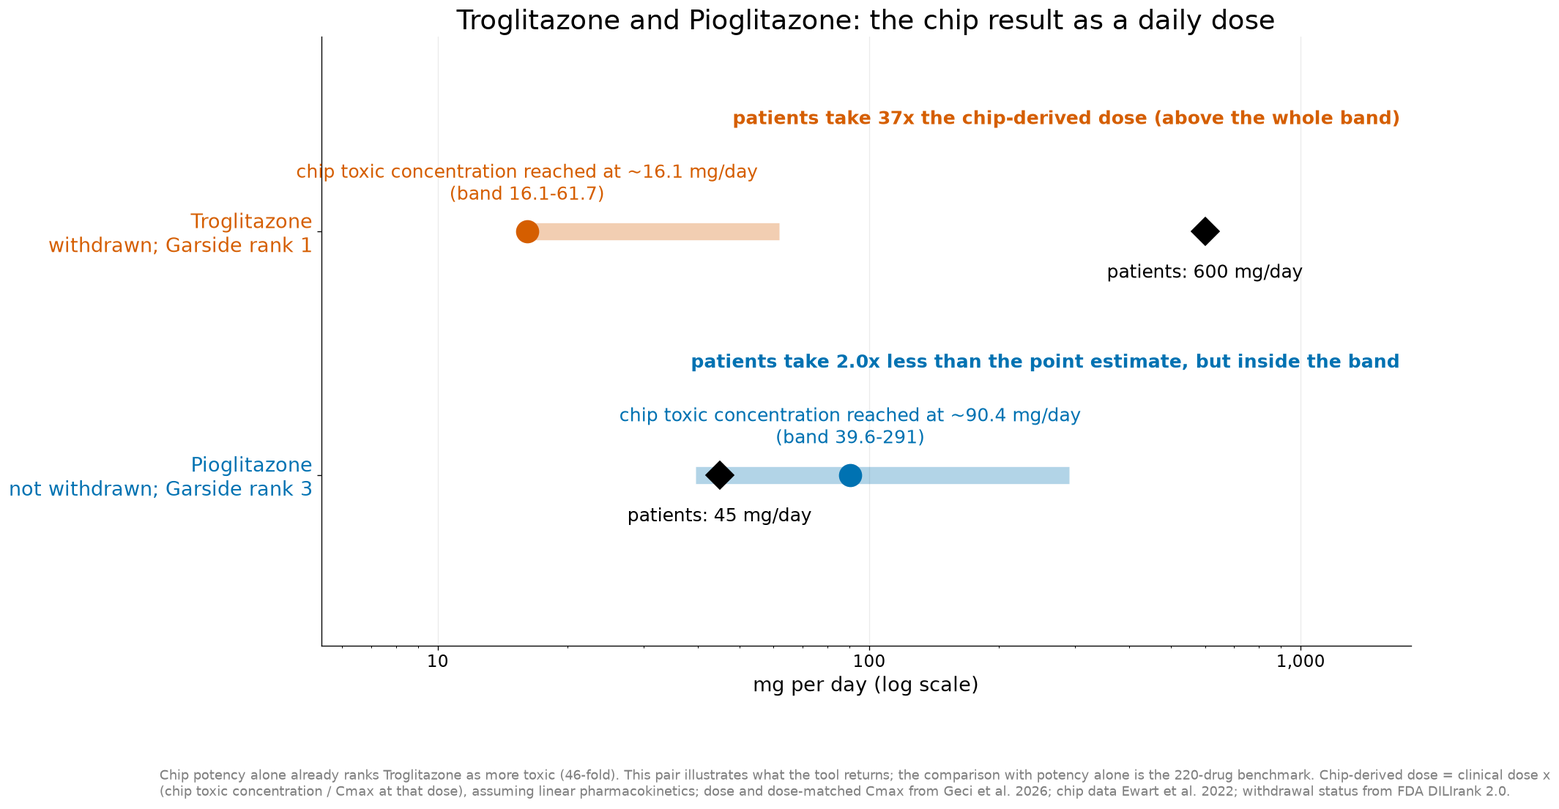
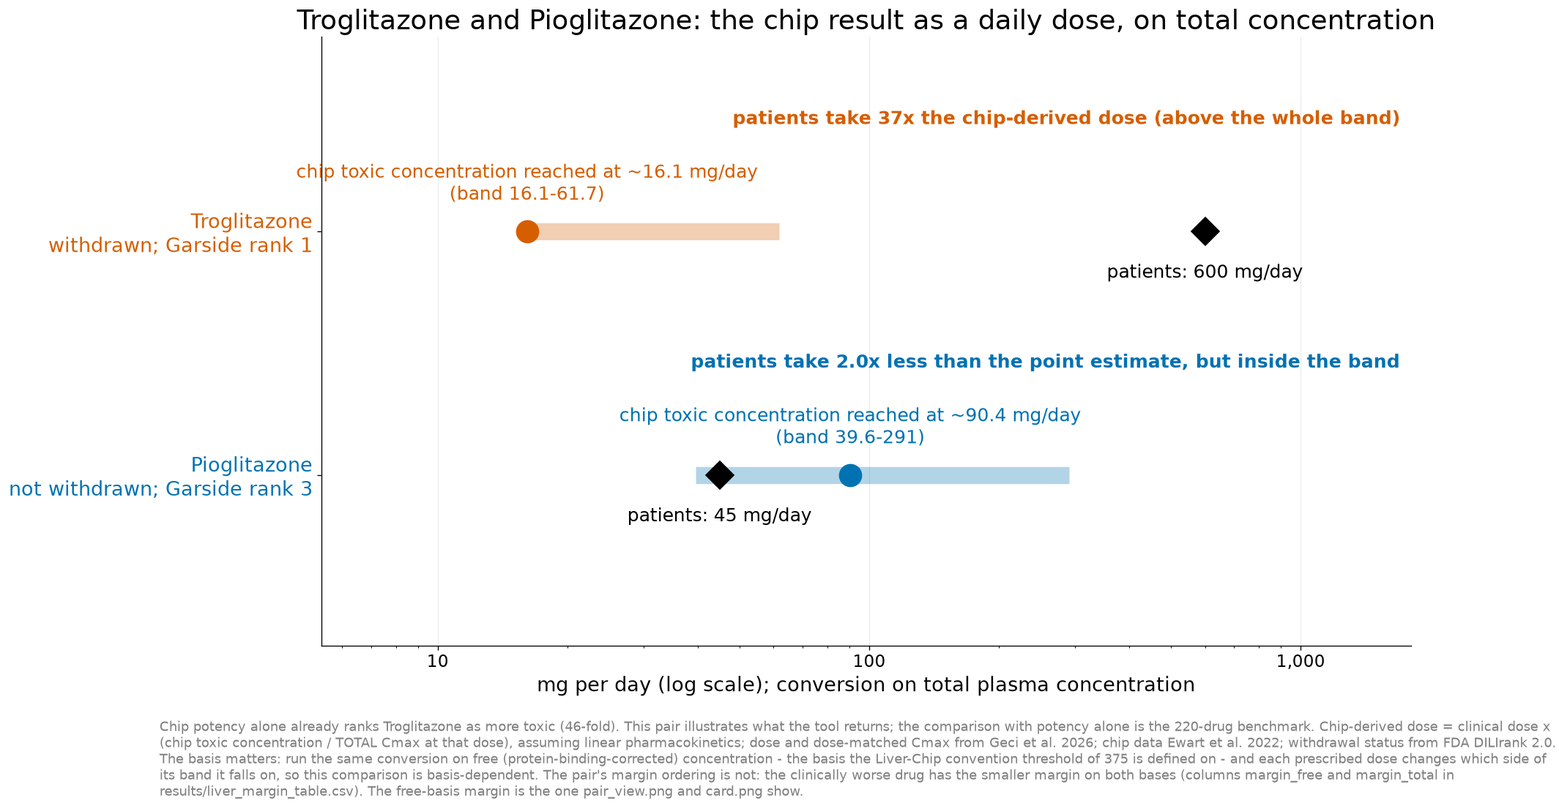
Lead the pair reveal with the free-basis margin, not the dose
The equivalent daily dose is computed on total concentration by
construction. On the free basis, which is what the Liver-Chip convention
threshold of 375 is defined on, each prescribed dose changes which side of
its band it falls on: troglitazone's moves from above the whole band to
inside it, pioglitazone's from inside its band to below it.

The pair's margin ordering does not change with the basis. Troglitazone
1.42x against pioglitazone 94.1x on free, 66-fold apart with bands that do
not overlap; 0.03x against 2.8x on total, 93-fold apart, also without
overlap. So the card now shows the two free-basis margins against the
convention line, with the basis named in its caption, and dose_view names
the total basis in its title, its axis label and its footnote. mg/day is
unchanged as the tool's output format in the CLI, the neural table and the
report.

Also in this change:

- Name each AUC baseline with its own increment. The free increment of
  +0.078 is over free Cmax alone (0.745), not over total Cmax alone
  (0.845); the free margin arm is 0.824 and sits below that baseline, so
  the two increments cannot be read against one anchor.
- Separate the benchmark's presence counts from its decider counts. They
  were run into one list that summed to 379 against 220 drugs. Which assay
  produces the lowest POD: BSEP 70, Cell Painting 27, HepG2 18, THLE 9.
  Merely present: 149, 79, 113, 117.

Tests pin the hero margins, the fold, and the text the card actually
[…]

Changed region(s): [[0.093, 0.8923, 1.0, 0.9846], [0.186, 0.0, 0.93, 0.0615], [0.341, 0.8308, 0.775, 0.8615]]

diff --git a/src/figures.py b/src/figures.py
@@ -144,10 +144,22 @@ def pair_view(margins: pd.DataFrame, key_a: str, key_b: str, path: Path) -> Path
     return _save(fig, path)
 
 
+def _withdrawal_status(compound: str) -> str:
+    """'withdrawn' / 'not withdrawn' from the DILIrank label section. Shared by the dose view and the
+    card so the two can never disagree about a drug's regulatory fate."""
+    clinical = labels.dilirank_label(compound)
+    return "withdrawn" if clinical.found and "withdrawn" in clinical.text.lower() else "not withdrawn"
+
+
 def dose_view(margins: pd.DataFrame, pairs: pd.DataFrame, key_a: str, key_b: str, path: Path) -> Path:
     """The output in real units: the daily dose at which the chip's toxic concentration is reached,
     next to the dose patients take. Illustrates what the tool returns; it is not the comparative
-    evidence (that is the benchmark), and the footer says so."""
+    evidence (that is the benchmark), and the footer says so.
+
+    The conversion is on TOTAL concentration by construction (`margin.compute` multiplies the dose by
+    `margin_total`), so the basis is named in the title, on the axis and in the footnote: on the free
+    basis the same pair's derived doses move and each prescribed dose changes side of its band, which
+    is why the basis-robust comparison is the margin figure and not this one."""
     by_key = margins.set_index("key")
     rows = sorted([by_key.loc[key_a], by_key.loc[key_b]], key=lambda r: r["garside_rank"])
     for row in rows:
@@ -171,20 +183,18 @@ def dose_view(margins: pd.DataFrame, pairs: pd.DataFrame, key_a: str, key_b: str
         ax.annotate(margin.dose_relation(dose, lo, hi, prescribed), (0.99, y + 0.46), xycoords=("axes fraction", "data"),
                     ha="right", va="center", fontsize=15, color=colour, weight="bold")
 
-    names = []
-    for row in rows:
-        clinical = labels.dilirank_label(row["compound"])
-        status = "withdrawn" if clinical.found and "withdrawn" in clinical.text.lower() else "not withdrawn"
-        names.append(f"{row['compound']}\n{status}; Garside rank {row['garside_rank']}")
+    names = [f"{row['compound']}\n{_withdrawal_status(row['compound'])}; Garside rank {row['garside_rank']}"
+             for row in rows]
     ax.set_yticks(ypos)
     ax.set_yticklabels(names, fontsize=16)
     for tick, colour in zip(ax.get_yticklabels(), colours):
         tick.set_color(colour)
     _log_axis(ax, values, pad=3.0)
     ax.set_ylim(-0.7, 1.8)
-    ax.set_xlabel("mg per day (log scale)")
+    ax.set_xlabel("mg per day (log scale); conversion on total plasma concentration")
     ax.grid(axis="x", alpha=0.25)
-    ax.set_title(f"{rows[0]['compound']} and {rows[1]['compound']}: the chip result as a daily dose", fontsize=22)
+    ax.set_title(f"{rows[0]['compound']} and {rows[1]['compound']}: the chip result as a daily dose, "
+                 "on total concentration", fontsize=22)
 
     pair = pairs[pairs["clinically_worse"].eq(rows[0]["compound"]) & pairs["comparator"].eq(rows[1]["compound"])]
     potency_note = (f"Chip potency alone already ranks {rows[0]['compound']} as more toxic "
@@ -192,49 +202,74 @@ def dose_view(margins: pd.DataFrame, pairs: pd.DataFrame, key_a: str, key_b: str
                     np.isfinite(pair["potency_fold"].iloc[0]) else "")
     fig.text(0.01, -0.08,
              f"{potency_note}This pair illustrates what the tool returns; the comparison with potency alone is the "
-             "220-drug benchmark. Chip-derived dose = clinical dose x (chip toxic concentration / Cmax at that dose), "
-             "assuming linear pharmacokinetics; dose and dose-matched Cmax from Geci et al. 2026; chip data Ewart et al. 2022; "
-             "withdrawal status from FDA DILIrank 2.0.",
+             "220-drug benchmark. Chip-derived dose = clinical dose x (chip toxic concentration / TOTAL Cmax at that "
+             "dose), assuming linear pharmacokinetics; dose and dose-matched Cmax from Geci et al. 2026; chip data "
+             "Ewart et al. 2022; withdrawal status from FDA DILIrank 2.0. The basis matters: run the same conversion "
+             "on free (protein-binding-corrected) concentration - the basis the Liver-Chip convention threshold of "
+             f"{config.THRESHOLDS['liver_free_375'].value:g} is defined on - and each prescribed dose changes which "
+             "side of its band it falls on, so this comparison is basis-dependent. The pair's margin ordering is not: "
+             "the clinically worse drug has the smaller margin on both bases (columns margin_free and margin_total in "
+             "results/liver_margin_table.csv). The free-basis margin is the one pair_view.png and card.png show.",
              fontsize=11, color=GREY, wrap=True)
     return _save(fig, path)
 
 
+def card_caption(margin_a: float, margin_b: float) -> str:
+    """The card's one caption line. A separate pure function so a test can assert the sentence the
+    card carries - the basis word above all - against live numbers instead of against source text."""
+    fold = max(margin_a, margin_b) / min(margin_a, margin_b)
+    return f"Liver-Chip safety margin on free concentration: {fold:.0f}-fold apart, same chip, same lab."
+
+
 def card_image(margins: pd.DataFrame, key_a: str, key_b: str, path: Path,
                aspect: dict | None = None) -> Path:
-    """The submission card: the same hero-pair numbers as `dose_view`, composed for a small card.
+    """The submission card: the hero pair's safety margin on the free basis, composed for a small card.
 
     Not a shrunk figure. It is read at roughly 300 px wide in a gallery grid, so everything that only
-    works at full size is gone - no axis, no ticks, no grid, no footnote - and what remains is the two
-    compounds, the chip-derived daily dose with its band, and the dose patients took. `aspect` defaults
-    to `CARD` (560 x 280, the size the Kaggle editor asks for); pass another dict to retarget it."""
+    works at full size is gone - no axis, no ticks, no grid - and what remains is the two compounds
+    with their clinical fate, the margin with its band, and the published convention threshold.
+
+    It shows the margin rather than the equivalent daily dose because this is the only figure with no
+    room for a footnote, and the dose comparison is basis-dependent (see `dose_view`) while the margin
+    orders this pair the same way on total and on free concentration. The basis is on the card's face.
+    `aspect` defaults to `CARD` (560 x 280, the size the Kaggle editor asks for); pass another dict to
+    retarget it."""
     by_key = margins.set_index("key")
     rows = sorted([by_key.loc[key_a], by_key.loc[key_b]], key=lambda r: r["garside_rank"])
     for row in rows:
-        if not np.isfinite(row["equivalent_dose_mg"]):
-            raise ValueError(f"{row['compound']}: no dose-matched Cmax, no equivalent daily dose to show")
+        # A censored POD makes the margin a lower bound, and a card has no room to say so.
+        if bool(row["censored"]) or not np.isfinite(row["margin_free"]):
+            raise ValueError(f"{row['compound']}: margin on the free basis is not a single measured "
+                             "value, so it cannot go on a card without a footnote")
 
+    threshold = rows[0]["threshold"]
     fig, ax = plt.subplots(**(aspect or CARD))
-    fig.subplots_adjust(left=0.26, right=0.98, top=0.70, bottom=0.08)
-    values = []
+    fig.subplots_adjust(left=0.30, right=0.97, top=0.66, bottom=0.10)
+    # The axis is fixed before anything is drawn, so each label can be anchored on the side of its
+    # marker that has room: the convention line is the rightmost mark and a centred label crosses it.
+    _log_axis(ax, [threshold] + [v for r in rows for v in (r["band_low"], r["band_high"], r["margin_free"])],
+              pad=5.0)
+    midpoint = float(np.sqrt(np.prod(ax.get_xlim())))  # geometric mean = the visual centre of a log axis
     for row, colour, y in zip(rows, [VERMILLION, BLUE], [1, 0]):
-        lo, hi = row["equivalent_dose_band_low"], row["equivalent_dose_band_high"]
-        dose, prescribed = row["equivalent_dose_mg"], row["clinical_dose_mg"]
-        values += [lo, hi, prescribed]
+        lo, hi = row["band_low"], row["band_high"]
+        value = row["margin_free"]
         ax.plot([lo, hi], [y, y], color=colour, lw=9, alpha=0.3, solid_capstyle="butt")
-        ax.plot(dose, y, "o", color=colour, ms=9)
-        ax.annotate(f"chip: {_fmt(dose)} mg/day ({_fmt(lo)}-{_fmt(hi)})", (dose, y), textcoords="offset points",
-                    xytext=(0, 11), ha="center", fontsize=11, color=colour)
-        ax.plot(prescribed, y, "D", color=BLACK, ms=8)
-        ax.annotate(f"patients: {_fmt(prescribed)}", (prescribed, y), textcoords="offset points",
-                    xytext=(0, -20), ha="center", fontsize=11)
+        ax.plot(value, y, "o", color=colour, ms=9)
+        right_half = value > midpoint
+        ax.annotate(f"margin {_fmt(value)}x ({_fmt(lo)}-{_fmt(hi)})", (value, y), textcoords="offset points",
+                    xytext=(-7 if right_half else 0, 11), ha="right" if right_half else "center",
+                    fontsize=11, color=colour)
+
+    ax.axvline(threshold, color=BLACK, ls="--", lw=1.2)
+    ax.annotate(f"convention {threshold:g}", (threshold, 1.62), xytext=(-5, 0), textcoords="offset points",
+                ha="right", va="center", fontsize=10)
 
     ax.set_yticks([1, 0])
-    ax.set_yticklabels([r["compound"] for r in rows], fontsize=12)
+    ax.set_yticklabels([f"{r['compound']}\n{_withdrawal_status(r['compound'])}" for r in rows], fontsize=11)
     for tick, colour in zip(ax.get_yticklabels(), [VERMILLION, BLUE]):
         tick.set_color(colour)
     ax.tick_params(axis="y", length=0)
-    _log_axis(ax, values, pad=5.0)
-    ax.set_ylim(-0.75, 1.75)
+    ax.set_ylim(-0.6, 1.9)
     # Everything a full-size figure can afford and a 300 px card cannot. A log scale keeps drawing
     # minor ticks after set_xticks([]), so the locator is cleared too, not just the labels.
     ax.set_xticks([])
@@ -242,9 +277,11 @@ def card_image(margins: pd.DataFrame, key_a: str, key_b: str, path: Path,
     ax.tick_params(axis="x", which="both", length=0)
     for side in ("left", "bottom"):
         ax.spines[side].set_visible(False)
-    # Two lines, not one: at this width a single line of the sentence runs off the canvas.
-    fig.text(0.02, 0.93, "An organ-chip gives a concentration.", fontsize=12.5, weight="bold", va="top")
-    fig.text(0.02, 0.80, "A patient gets a dose.", fontsize=12.5, weight="bold", va="top")
+    # The one surface with no footnote, so the basis and the fold are stated, not implied.
+    fig.text(0.02, 0.965, "An organ-chip gives a concentration. A patient gets a dose.",
+             fontsize=11.5, weight="bold", va="top")
+    fig.text(0.02, 0.855, card_caption(rows[0]["margin_free"], rows[1]["margin_free"]),
+             fontsize=9.5, color=GREY, va="top")
     return _save(fig, path, bbox_inches=fig.bbox_inches)
 
 

diff --git a/tests/test_pairs_and_outputs.py b/tests/test_pairs_and_outputs.py
@@ -257,12 +257,74 @@ def test_the_run_writes_the_submission_card_at_the_size_the_editor_requires(tmp_
     assert _png_size(card) == (560, 280)
 
 
-def test_the_card_refuses_a_pair_with_no_equivalent_daily_dose(tmp_path):
-    """Same guard as the dose view: the card shows a dose or it is not drawn. It must never fall back
-    to a compound whose equivalent dose does not exist."""
+def test_the_card_refuses_a_pair_whose_margin_is_only_a_lower_bound(tmp_path):
+    """The card carries the margin and has no room for a footnote, so it must never show a censored
+    POD's margin, which is a lower bound and not a measured value. Ambrisentan's POD is censored."""
     import pytest
     with pytest.raises(ValueError):
         figures.card_image(liver.margin_table(), "ambrisentan", "sitaxsentan", tmp_path / "x.png")
+
+
+# The hero pair's free-basis margins and their fold: spoken in demo Beat 3, printed on card.png and
+# on pair_view.png. Literals, because the basis is the whole point of the claim - the same pair on
+# total concentration separates 93-fold, and the equivalent-dose comparison changes direction with
+# the basis - so a silent switch of basis or data vintage has to turn this red, not move the number.
+HERO_MARGINS_FREE = {"troglitazone": 1.42309, "pioglitazone": 94.0772}
+HERO_MARGIN_FOLD_FREE = 66
+HERO_CONVENTION_THRESHOLD = 375.0
+
+
+def test_the_hero_pairs_free_margins_and_the_fold_the_demo_speaks_are_pinned():
+    """Beat 3 says '1.4x', '94x', '66-fold apart' and 'below the convention of 375'. A recorded video
+    cannot be re-run, so each of those is compared with a literal here rather than re-derived from the
+    table that produced it. The verdicts are pinned too: the claim is that the convention puts BOTH on
+    the same side while the distance from it separates them, which is false if either goes ABOVE."""
+    import numpy as np
+
+    table = liver.margin_table().set_index("key")
+    for key, expected in HERO_MARGINS_FREE.items():
+        row = table.loc[key]
+        assert np.isclose(row["margin_free"], expected, rtol=1e-5), (key, row["margin_free"])
+        assert not bool(row["censored"]), key
+        assert row["verdict"] == "BELOW", (key, row["verdict"])
+        assert row["threshold"] == HERO_CONVENTION_THRESHOLD, key
+    a, b = (table.loc[k]["margin_free"] for k in HERO_MARGINS_FREE)
+    assert round(max(a, b) / min(a, b)) == HERO_MARGIN_FOLD_FREE
+    # The bands do not overlap, which is what "decisive" means here and what the card shows.
+    tro, pio = table.loc["troglitazone"], table.loc["pioglitazone"]
+    assert tro["band_high"] < pio["band_low"], (tro["band_high"], pio["band_low"])
+    # The ordering survives the other basis; only the dose comparison changes direction with it.
+    assert tro["margin_total"] < pio["margin_total"]
+
+
+def _rendered_card_text(tmp_path, monkeypatch):
+    """Every string the card actually draws. The figure is held open instead of being read back off
+    the PNG, so the check is on the rendered artists rather than on the source that composed them."""
+    import matplotlib.pyplot as plt
+    held = []
+    monkeypatch.setattr(plt, "close", held.append)
+    figures.card_image(liver.margin_table(), "troglitazone", "pioglitazone", tmp_path / "card.png")
+    fig = held[-1]
+    drawn = [t.get_text() for t in fig.texts]
+    for ax in fig.axes:
+        drawn += [t.get_text() for t in ax.texts] + [t.get_text() for t in ax.get_yticklabels()]
+    plt.close(fig)
+    return drawn
+
+
+def test_the_card_states_the_basis_and_shows_the_free_margins(tmp_path, monkeypatch):
+    """P2-1: the card is the only surface with no footnote, and the quantity that used to be on it -
+    the equivalent daily dose - changes direction on the other basis. So the card carries the margin,
+    and says which basis, on its face. Rendered text, because that is what a reviewer reads."""
+    drawn = " | ".join(_rendered_card_text(tmp_path, monkeypatch))
+    assert "free concentration" in drawn, drawn
+    assert f"{HERO_MARGIN_FOLD_FREE}-fold" in drawn, drawn
+    assert f"convention {HERO_CONVENTION_THRESHOLD:g}" in drawn, drawn
+    # The plotted values are the free margins (1.42x / 94.1x), not the total ones (0.03x / 2.8x).
+    assert "margin 1.42x" in drawn and "margin 94.1x" in drawn, drawn
+    assert "withdrawn" in drawn, drawn
+    # And the basis-dependent quantity is gone from this surface rather than merely relabelled.
+    assert "mg/day" not in drawn, drawn
 
 
 def test_roc_legend_labels_stay_short_enough_to_sit_inside_the_axes():

diff --git a/tests/test_data_and_labels.py b/tests/test_data_and_labels.py
@@ -97,13 +97,23 @@ BENCHMARK_ASSAY_LABELS = {
     "ToxCastAPR_HepG2_MitoMembPot_72hr", "Williams2019lowestPOD", "medianBSEPIC50",
     "terBraak2024lowestPOD",
 }
-# Drugs (of 220) whose POD list CONTAINS this assay - the "117 / 113 / 79" in the prose.
+# Drugs (of 220) whose POD list CONTAINS this assay - the "149 / 117 / 113 / 79" in the prose.
 BENCHMARK_ASSAY_PRESENCE = {
-    "Aleo2019CytoToxTHLE": 117, "Aleo2019CytoToxHPG2": 113, "CellPaintCytoToxPOD": 79,
+    "medianBSEPIC50": 149, "Aleo2019CytoToxTHLE": 117, "Aleo2019CytoToxHPG2": 113,
+    "CellPaintCytoToxPOD": 79,
 }
-# Drugs (of 220) whose LOWEST POD is a BSEP IC50 - the "70 of the 220" in the prose. A different
-# question from presence (149 carry one somewhere), and the one the sentence actually makes.
-BSEP_DECIDES_THE_LOWEST_POD = 70
+# Drugs (of 220) whose LOWEST POD this assay is - the "70 / 9 / 18 / 27" in the prose. A different
+# question from presence and the one the sentence actually makes; the two were published mixed into
+# one list once, where they summed to 379 against a denominator of 220, so both are pinned and the
+# deciders are asserted to sum to exactly the 220 drugs.
+BENCHMARK_ASSAY_DECIDES = {
+    "medianBSEPIC50": 70, "Aleo2019CytoToxTHLE": 9, "Aleo2019CytoToxHPG2": 18,
+    "CellPaintCytoToxPOD": 27,
+}
+BSEP_DECIDES_THE_LOWEST_POD = BENCHMARK_ASSAY_DECIDES["medianBSEPIC50"]
+# Of the 23 labels, this many are some drug's lowest POD. The prose derives two figures from it:
+# "14 further labels" beyond the four named above, and "5 of the 23 never produce any lowest POD".
+LABELS_THAT_DECIDE_AT_LEAST_ONE = 18
 BENCHMARK_N = 220
 # Tokens that would make a label an organ-chip / microphysiological readout.
 ORGAN_CHIP_TOKENS = {"chip", "organ", "organoid", "spheroid", "mps", "microphysiological", "3d"}
@@ -149,8 +159,14 @@ def test_the_benchmark_assay_composition_the_disclosure_states_is_pinned_to_lite
         assert np.isclose(lowest, row["lowest_pod_uM"], rtol=1e-6)
         deciders[sources[values.index(lowest)]] += 1
     assert ties == 0
-    assert deciders["medianBSEPIC50"] == BSEP_DECIDES_THE_LOWEST_POD
+    assert {k: deciders[k] for k in BENCHMARK_ASSAY_DECIDES} == BENCHMARK_ASSAY_DECIDES
     assert sum(deciders.values()) == BENCHMARK_N
+    # The prose also states how the other 96 drugs are spread: 14 further labels decide at least one,
+    # and 5 of the 23 decide none. Both follow from this count, so it is pinned rather than implied.
+    assert len(deciders) == LABELS_THAT_DECIDE_AT_LEAST_ONE
+    # Presence and decider counts are two different questions about the same four assays, and the
+    # prose states both; every decider count must be no larger than that assay's presence count.
+    assert all(deciders[k] <= present[k] for k in BENCHMARK_ASSAY_DECIDES)
     # The second route to the same figure: equality with the drug's own BSEP IC50 column.
     assert int(np.isclose(table["lowest_pod_uM"], table["bsep_ic50_uM"], rtol=1e-9).sum()) == \
         BSEP_DECIDES_THE_LOWEST_POD

diff --git a/README.md b/README.md
@@ -99,10 +99,15 @@ complete check is therefore a comparison against commit `a76e7e9` in the git his
 | **learned, exposure-aware features** | **0.89 [0.83, 0.94]** |
 | **paired difference (primary)** | **+0.24 [+0.15, +0.34]** |
 
-**What the lowest POD is measured in.** Geci et al.'s `lowestPOD` is the lowest in-vitro value across 17 published
-hepatotoxicity datasets, 23 assay readouts in all: for 70 of the 220 drugs the lowest POD is a BSEP inhibition IC50, and
-the rest come from THLE and HepG2 cytotoxicity in cell-line monolayers (117 and 113 drugs carry one), Cell Painting (79),
-ToxCast HepG2 imaging and mitochondrial assays - none of the 23 readouts is an organ-chip measurement. A clinical DILI
+**What the lowest POD is measured in.** Geci et al.'s `lowestPOD` is the lowest in-vitro value across the 17 published
+hepatotoxicity datasets the authors integrated, and across the 220 drugs analysed here those values carry 23 distinct
+assay labels. "Which assay produced the lowest POD" and "which assays a drug was tested in" are two different counts, so
+both are given. Produced the lowest POD: a BSEP inhibition IC50 for 70 of the 220 drugs, Cell Painting cytotoxicity for
+27, HepG2 cytotoxicity for 18, THLE cytotoxicity for 9; the remaining 96 drugs are spread over 14 further labels -
+per-publication lowest-POD aggregates, ToxCast HepG2 imaging and mitochondrial readouts, and a second transporter assay
+(MRP2) - and 5 of the 23 labels never produce any drug's lowest POD. Merely present among a drug's points of departure:
+BSEP for 149 drugs, THLE for 117, HepG2 for 113, Cell Painting for 79. None of the 23 labels is an organ-chip
+measurement, and the most frequent single label is a transporter-inhibition assay. A clinical DILI
 outcome for 220 drugs exists only for drugs that reached patients, and those drugs were characterised in these
 conventional assays, so the benchmark is where the thesis can be tested at this scale while the chip is where the method
 is applied (27 Liver-Chip drugs, 136 neural chemicals) - and `results/neural_coverage.csv` counts what that costs: for
@@ -168,10 +173,14 @@ class definitions. The matched rows above are the comparison.
 
 ## Findings we report against ourselves
 
-- **What the chip adds over exposure alone, in one place.** On the primary endpoint total Cmax alone reaches AUC 0.845,
-  and the margin's increment over it is small: +0.044 [+0.003, +0.090] on total concentrations, +0.078 [+0.026, +0.132]
-  on free; on the narrower endpoint the total increment's interval includes zero (+0.035 [-0.006, +0.083]). That is the
-  size of the effect on this benchmark and we do not claim it settles the question. What it does not measure is the
+- **What the chip adds over exposure alone, in one place.** Each concentration basis is its own baseline, and the
+  margin's increment is small over both. On the primary endpoint: total Cmax alone reaches AUC 0.845 and the margin on
+  total concentrations reaches 0.889, an increment of +0.044 [+0.003, +0.090]; free Cmax alone reaches 0.745 and the
+  margin on free concentrations reaches 0.824, an increment of +0.078 [+0.026, +0.132]. The larger increment is the one
+  over the weaker baseline - the free margin arm sits *below* the 0.845 that total Cmax alone reaches, not above it - so
+  the two increments cannot be read against a single baseline. On the narrower endpoint the total increment's interval
+  includes zero (+0.035 [-0.006, +0.083]). That is the size of the effect on this benchmark and we do not claim it
+  settles the question. What it does not measure is the
   setting the tool is built for: a drug can be in this benchmark only if it reached patients, and a drug that reached
   patients has a measured clinical Cmax by construction - so "exposure alone" is available for all 220 of these drugs and
   for none of the compounds a chip lab tests before any human dose exists. That asymmetry is measured rather than

diff --git a/writeup/report_outline.md b/writeup/report_outline.md
@@ -190,9 +190,13 @@ the benchmark was built. It means drugs that were inactive at every tested conce
 construction, and potency's weakness here is partly a property of the benchmark and not only of potency.
 
 **Second: what the chip adds over exposure alone, assembled in one place** (the question the Oct 20–30 defense will
-ask, and the one a problem owner asks first). On the primary endpoint total Cmax alone reaches AUC 0.845, and the
-margin's increment over it is small: +0.044 [+0.003, +0.090] on total concentrations, +0.078 [+0.026, +0.132] on free;
-on the narrower endpoint the total increment's interval includes zero (+0.035 [−0.006, +0.083]). That is the size of the
+ask, and the one a problem owner asks first). Each concentration basis is its own baseline, and the margin's increment
+is small over both. On the primary endpoint: total Cmax alone reaches AUC 0.845 and the margin on total concentrations
+reaches 0.889, an increment of +0.044 [+0.003, +0.090]; free Cmax alone reaches 0.745 and the margin on free
+concentrations reaches 0.824, an increment of +0.078 [+0.026, +0.132]. The section states both baselines explicitly
+because the larger increment is the one over the weaker baseline: the free margin arm sits *below* the 0.845 that total
+Cmax alone reaches, so adding +0.078 to 0.845 produces a number this report does not contain. On the narrower endpoint
+the total increment's interval includes zero (+0.035 [−0.006, +0.083]). That is the size of the
 effect on this benchmark, and the report does not claim it settles the question. What it does not measure is the setting
 the tool is built for. A drug can be in this benchmark only if it reached patients, and a drug that reached patients has
 a measured clinical Cmax by construction — so "exposure alone" is available for all 220 of these drugs and for none of
